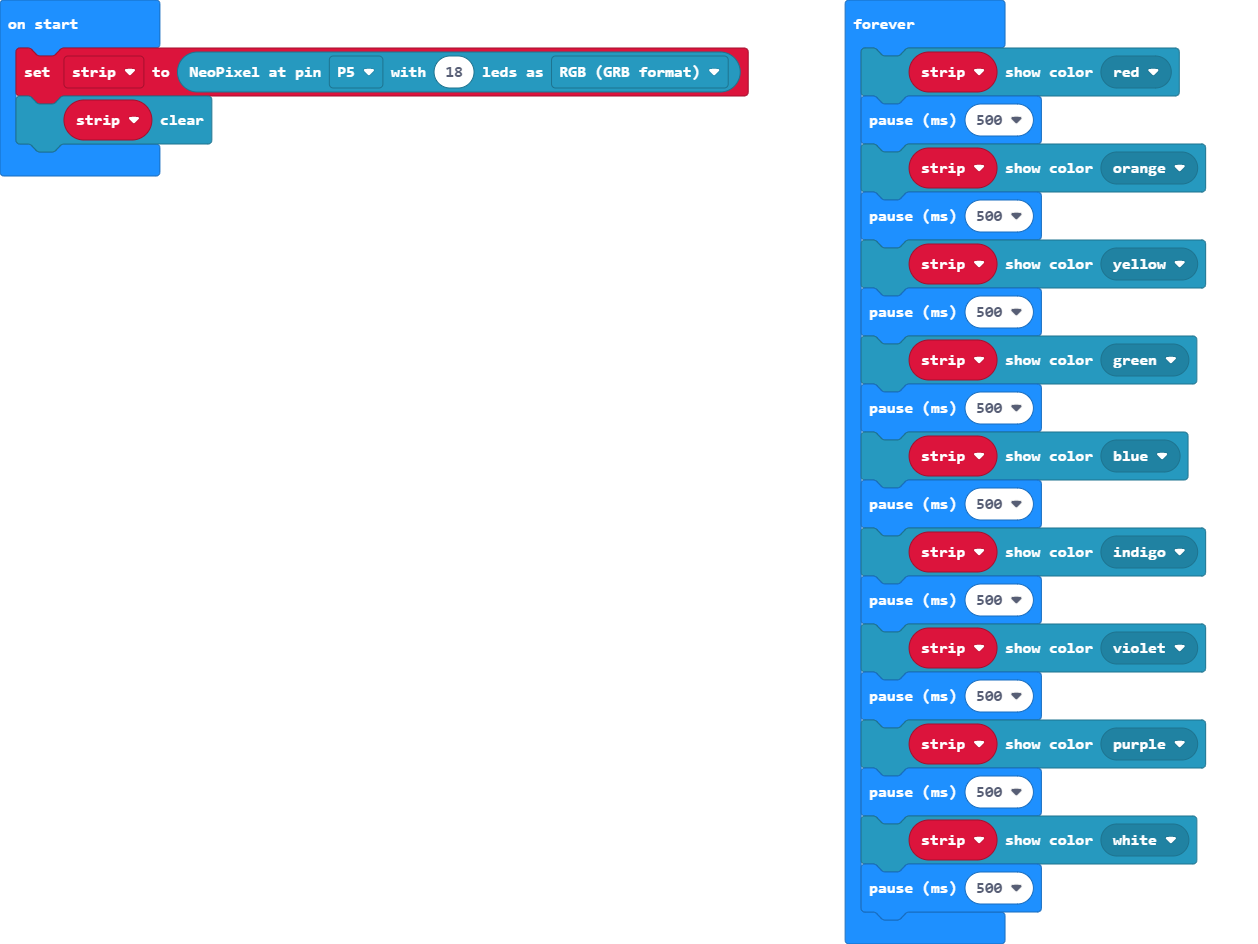
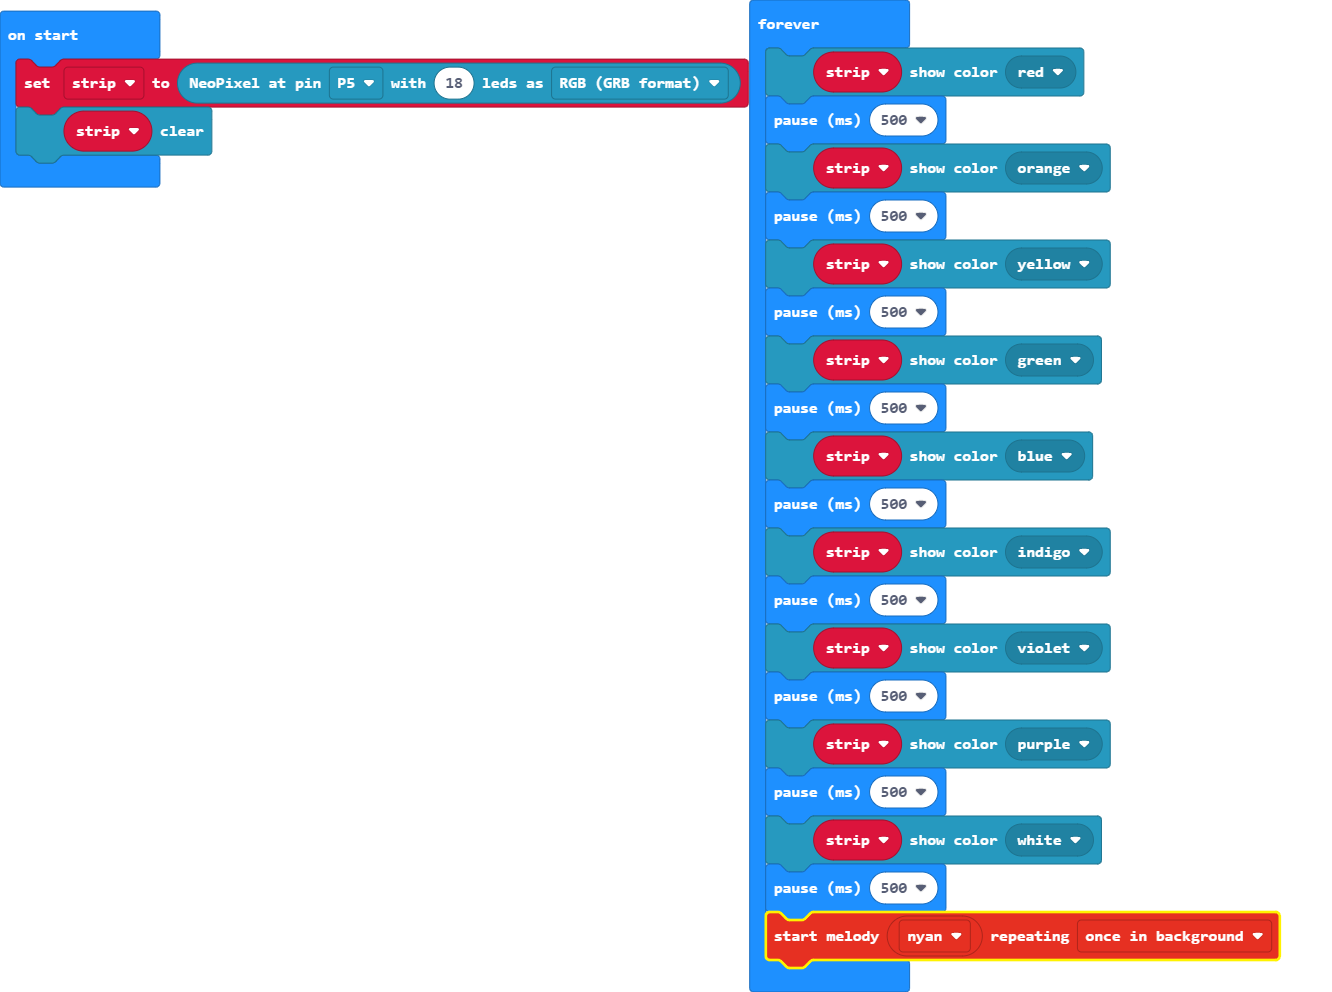
add music

diff --git a/main.ts b/main.ts
@@ -19,4 +19,5 @@ basic.forever(function () {
     basic.pause(500)
     strip.showColor(neopixel.colors(NeoPixelColors.White))
     basic.pause(500)
+    music.startMelody(music.builtInMelody(Melodies.Nyan), MelodyOptions.OnceInBackground)
 })
